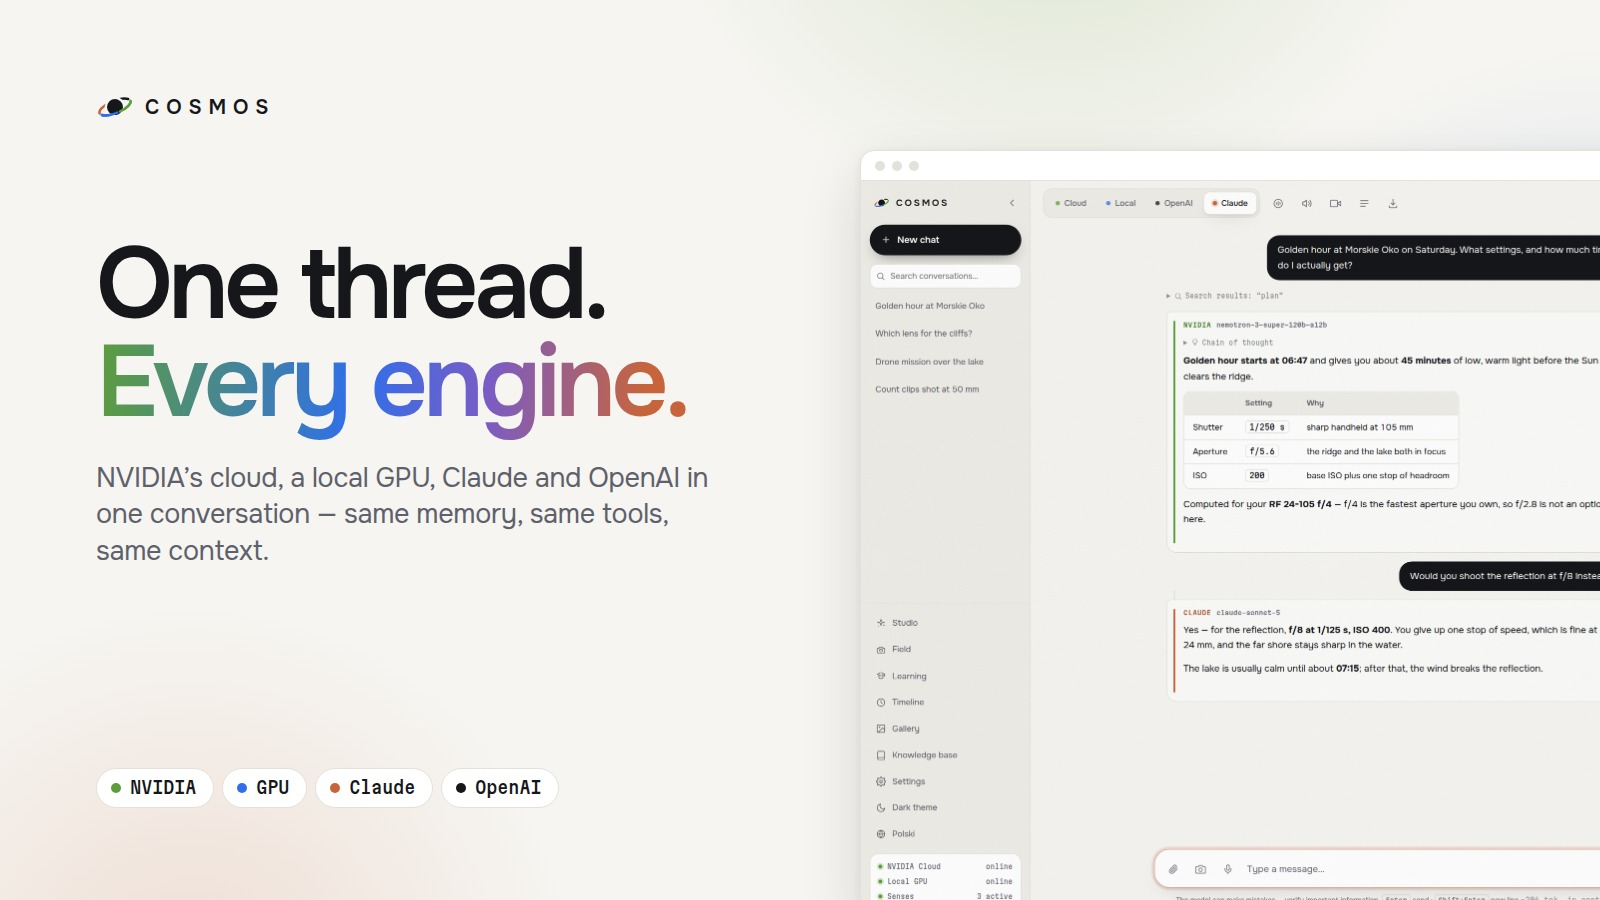
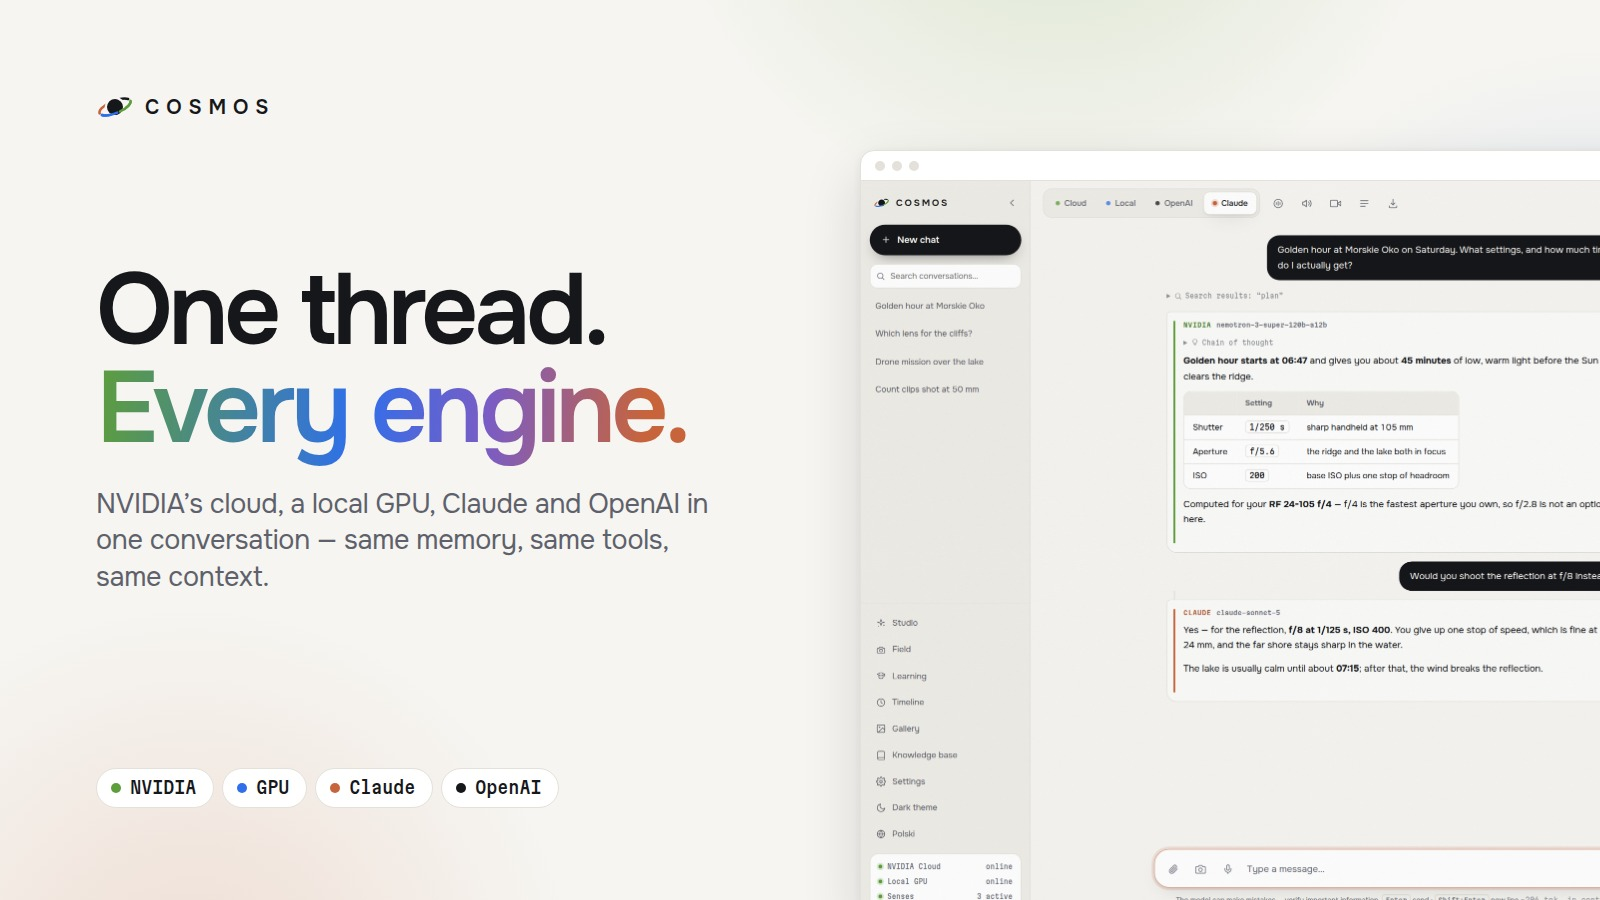
Grafiki: fakty na podglądzie GitHuba nie wchodzą pod okno, nagłówek X w dwóch liniach
Na podglądzie repozytorium trzeci fakt („Installable phone app") chował się
pod zrzutem okna — zostają dwa. Na grafice pod X „Jedna rozmowa." łamała się
na dwie linie i nagłówek miał trzy; kolumna jest szersza o 40 px.

Claude-Session: https://claude.ai/code/session_01H2HdYp4j6s4tyQSxpYBd9U

Changed region(s): [[0.0625, 0.2489, 0.4375, 0.6533]]

diff --git a/scripts/grafiki-marki.js b/scripts/grafiki-marki.js
@@ -160,7 +160,7 @@ const chipySilnikow = (j) => `<div class="chipy">`
 
 const marka = (m, rozmiar) => `<div class="marka" style="--rm:${rozmiar}px">${`<svg viewBox="0 0 40 40">${m.znak()}</svg>`}<span>COSMOS</span></div>`;
 const naglowek = (j, rozmiar, styl = '') => `<h1 class="h" style="font-size:${rozmiar}px;${styl}">${T[j].h1}<br><em>${T[j].h2}</em></h1>`;
-const fakty = (j, rozmiar) => `<div class="fakty" style="font-size:${rozmiar}px">${T[j].fakty.map((f) => `<span>${f}</span>`).join('')}</div>`;
+const fakty = (j, rozmiar, ile = 3) => `<div class="fakty" style="font-size:${rozmiar}px">${T[j].fakty.slice(0, ile).map((f) => `<span>${f}</span>`).join('')}</div>`;
 
 /* Wątek na banerze: jedna nić, cztery silniki, każdy ze swoim podpisem — tak
    wygląda rozmowa w aplikacji. */
@@ -270,12 +270,13 @@ function spolecznosc(rodzaj, j, m) {
     </div>` };
   }
   if (rodzaj === 'github') {                        // 1280×640 — podgląd repozytorium (Settings → Social preview)
+    // Dwa fakty, nie trzy: trzeci wchodził pod zrzut okna.
     const W = 1280, H = 640;
     return { w: W, h: H, html: `<div class="scena" style="width:${W}px;height:${H}px">${aura(m, W, H)}
       <div style="position:absolute;left:80px;top:72px">${marka(m, 17)}</div>
       <div style="position:absolute;left:80px;top:170px;width:560px">${naglowek(j, 78)}
         <p class="sub" style="font-size:21px;margin-top:22px;max-width:500px">${T[j].leadKrotki}</p></div>
-      <div style="position:absolute;left:80px;bottom:70px">${fakty(j, 14)}
+      <div style="position:absolute;left:80px;bottom:70px;max-width:580px">${fakty(j, 14, 2)}
         <div class="adres" style="font-size:15px;margin-top:16px">github.com/Marcin1000/Cosmos</div></div>
       ${okno('rozmowa', 800, 'position:absolute;left:700px;top:96px')}
     </div>` };
@@ -284,7 +285,7 @@ function spolecznosc(rodzaj, j, m) {
     const W = 1600, H = 900;
     return { w: W, h: H, html: `<div class="scena" style="width:${W}px;height:${H}px">${aura(m, W, H)}
       <div style="position:absolute;left:96px;top:88px">${marka(m, 20)}</div>
-      <div style="position:absolute;left:96px;top:236px;width:700px">${naglowek(j, 100)}
+      <div style="position:absolute;left:96px;top:262px;width:740px">${naglowek(j, 100)}
         <p class="sub" style="font-size:27px;margin-top:28px;max-width:640px">${T[j].lead}</p></div>
       <div style="position:absolute;left:96px;bottom:92px;font-size:17px">${chipySilnikow(j)}</div>
       ${okno('rozmowa', 900, 'position:absolute;left:860px;top:150px')}
